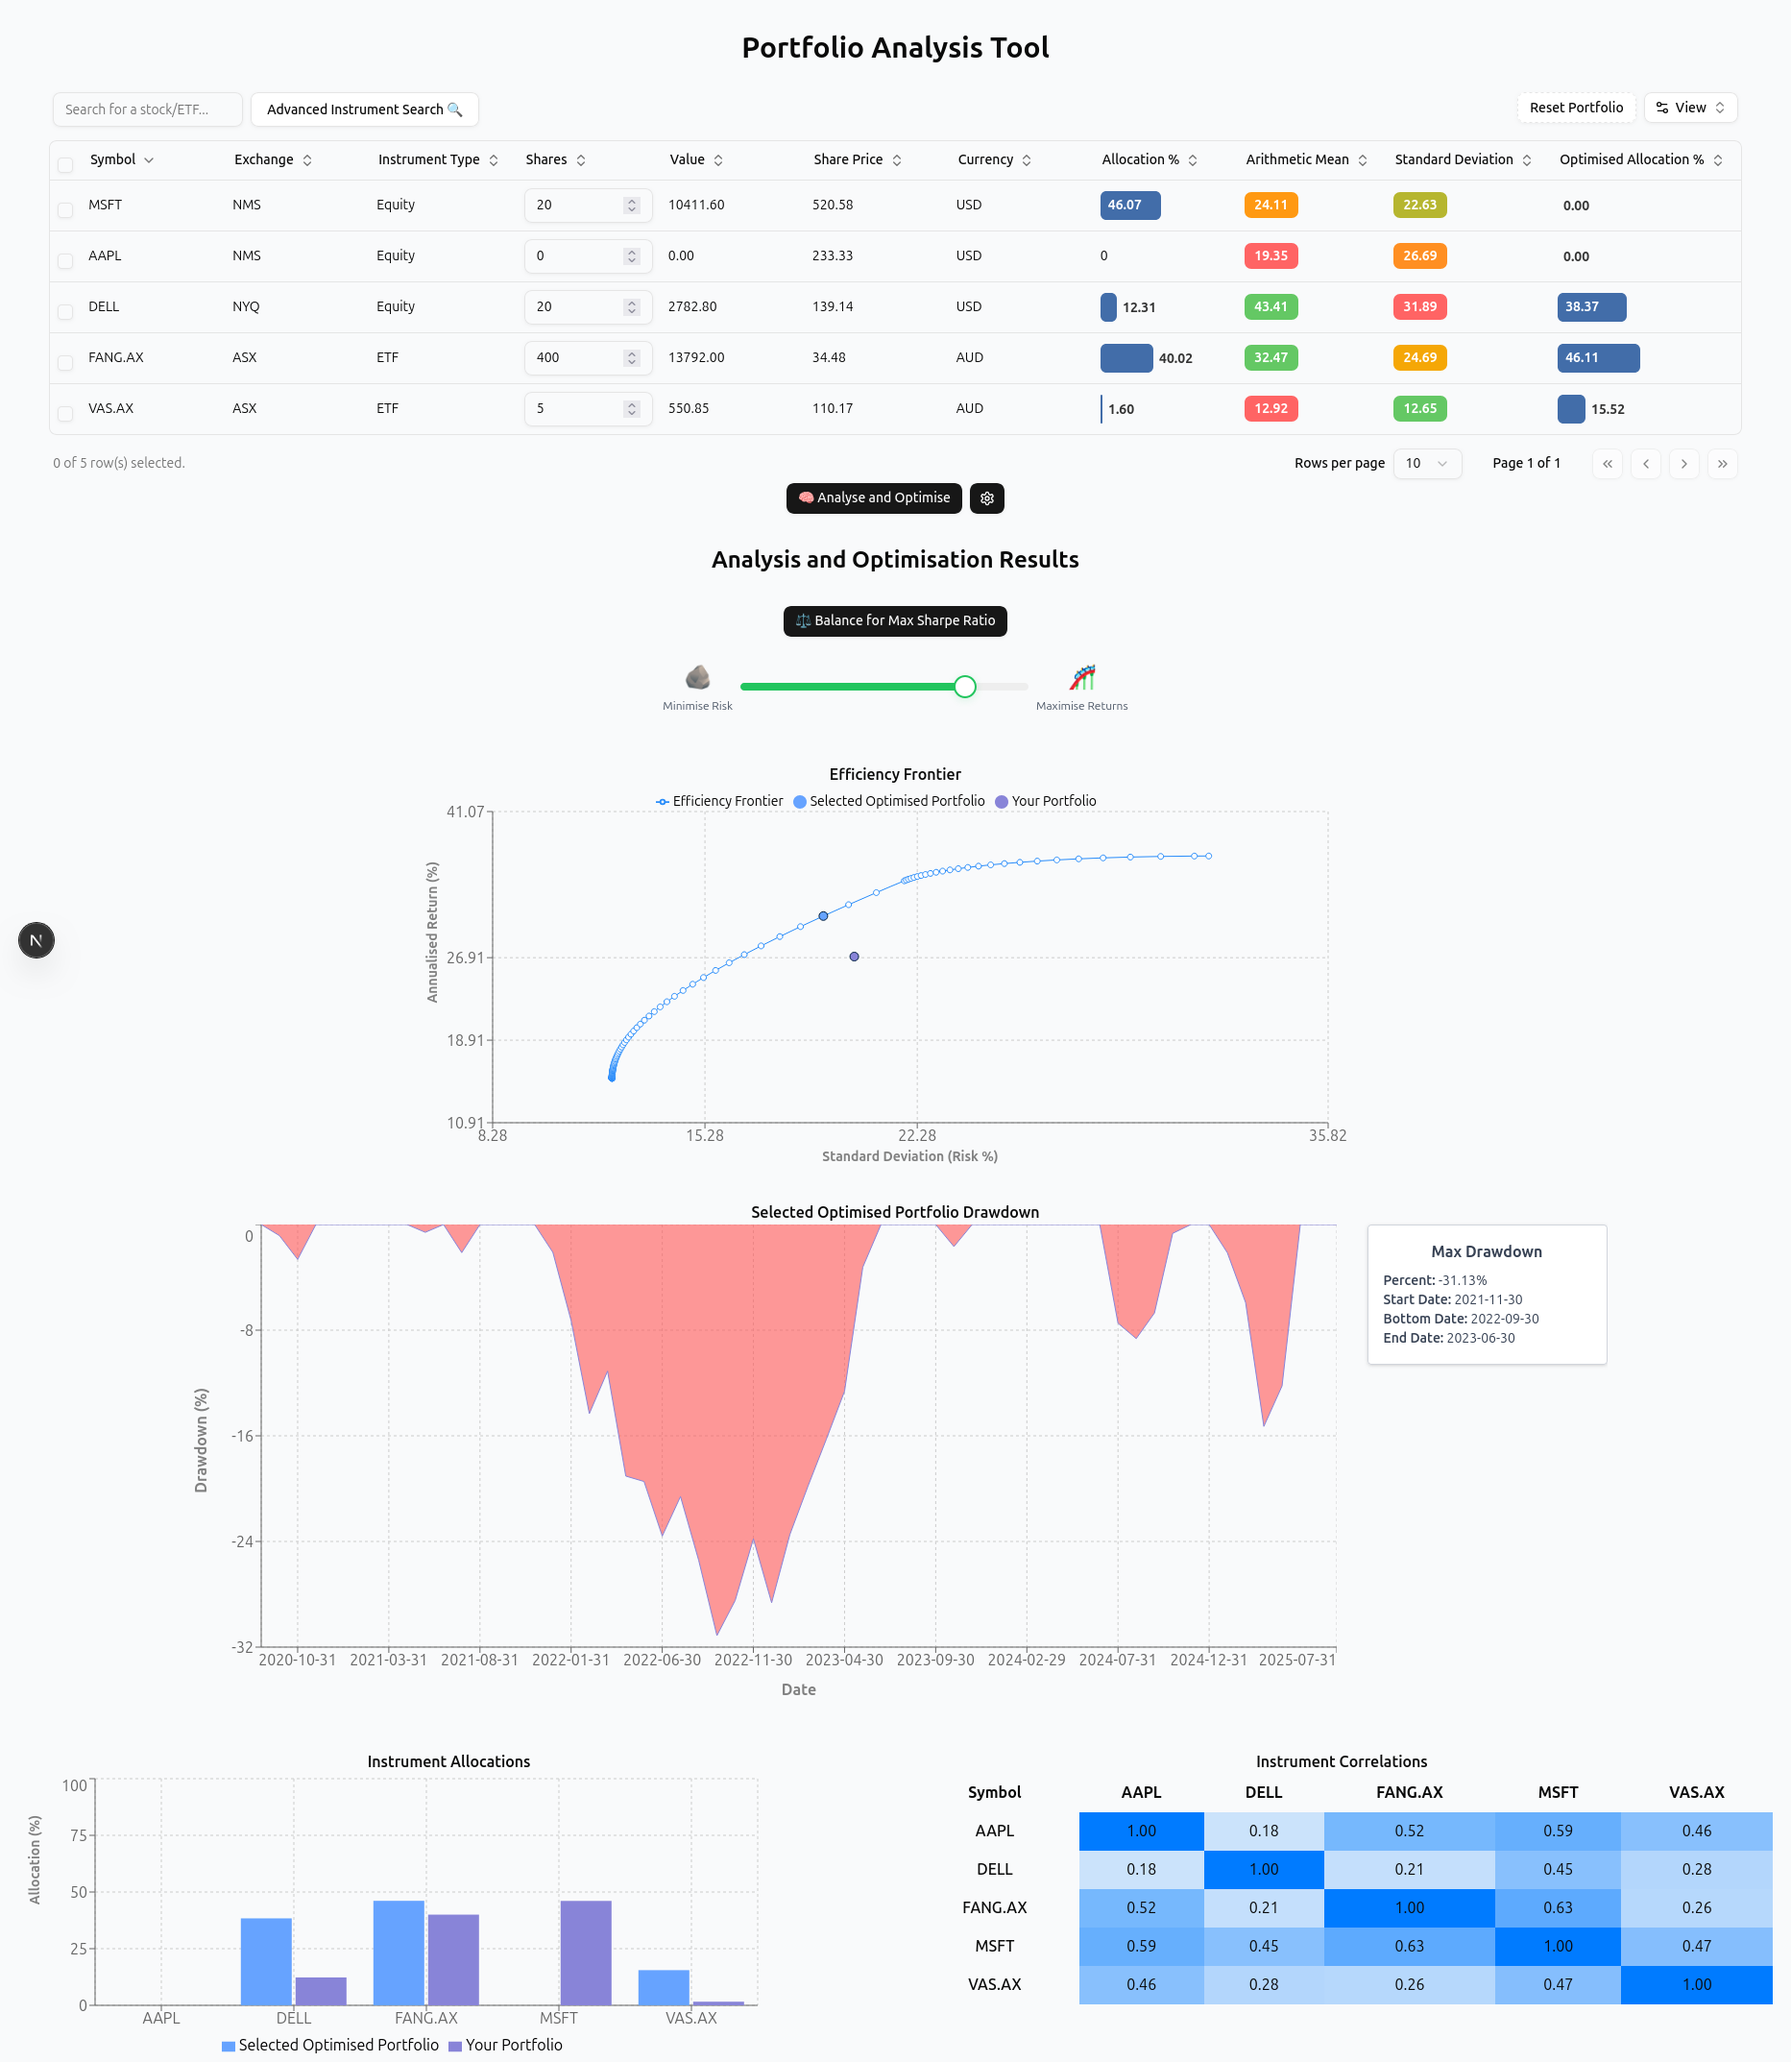
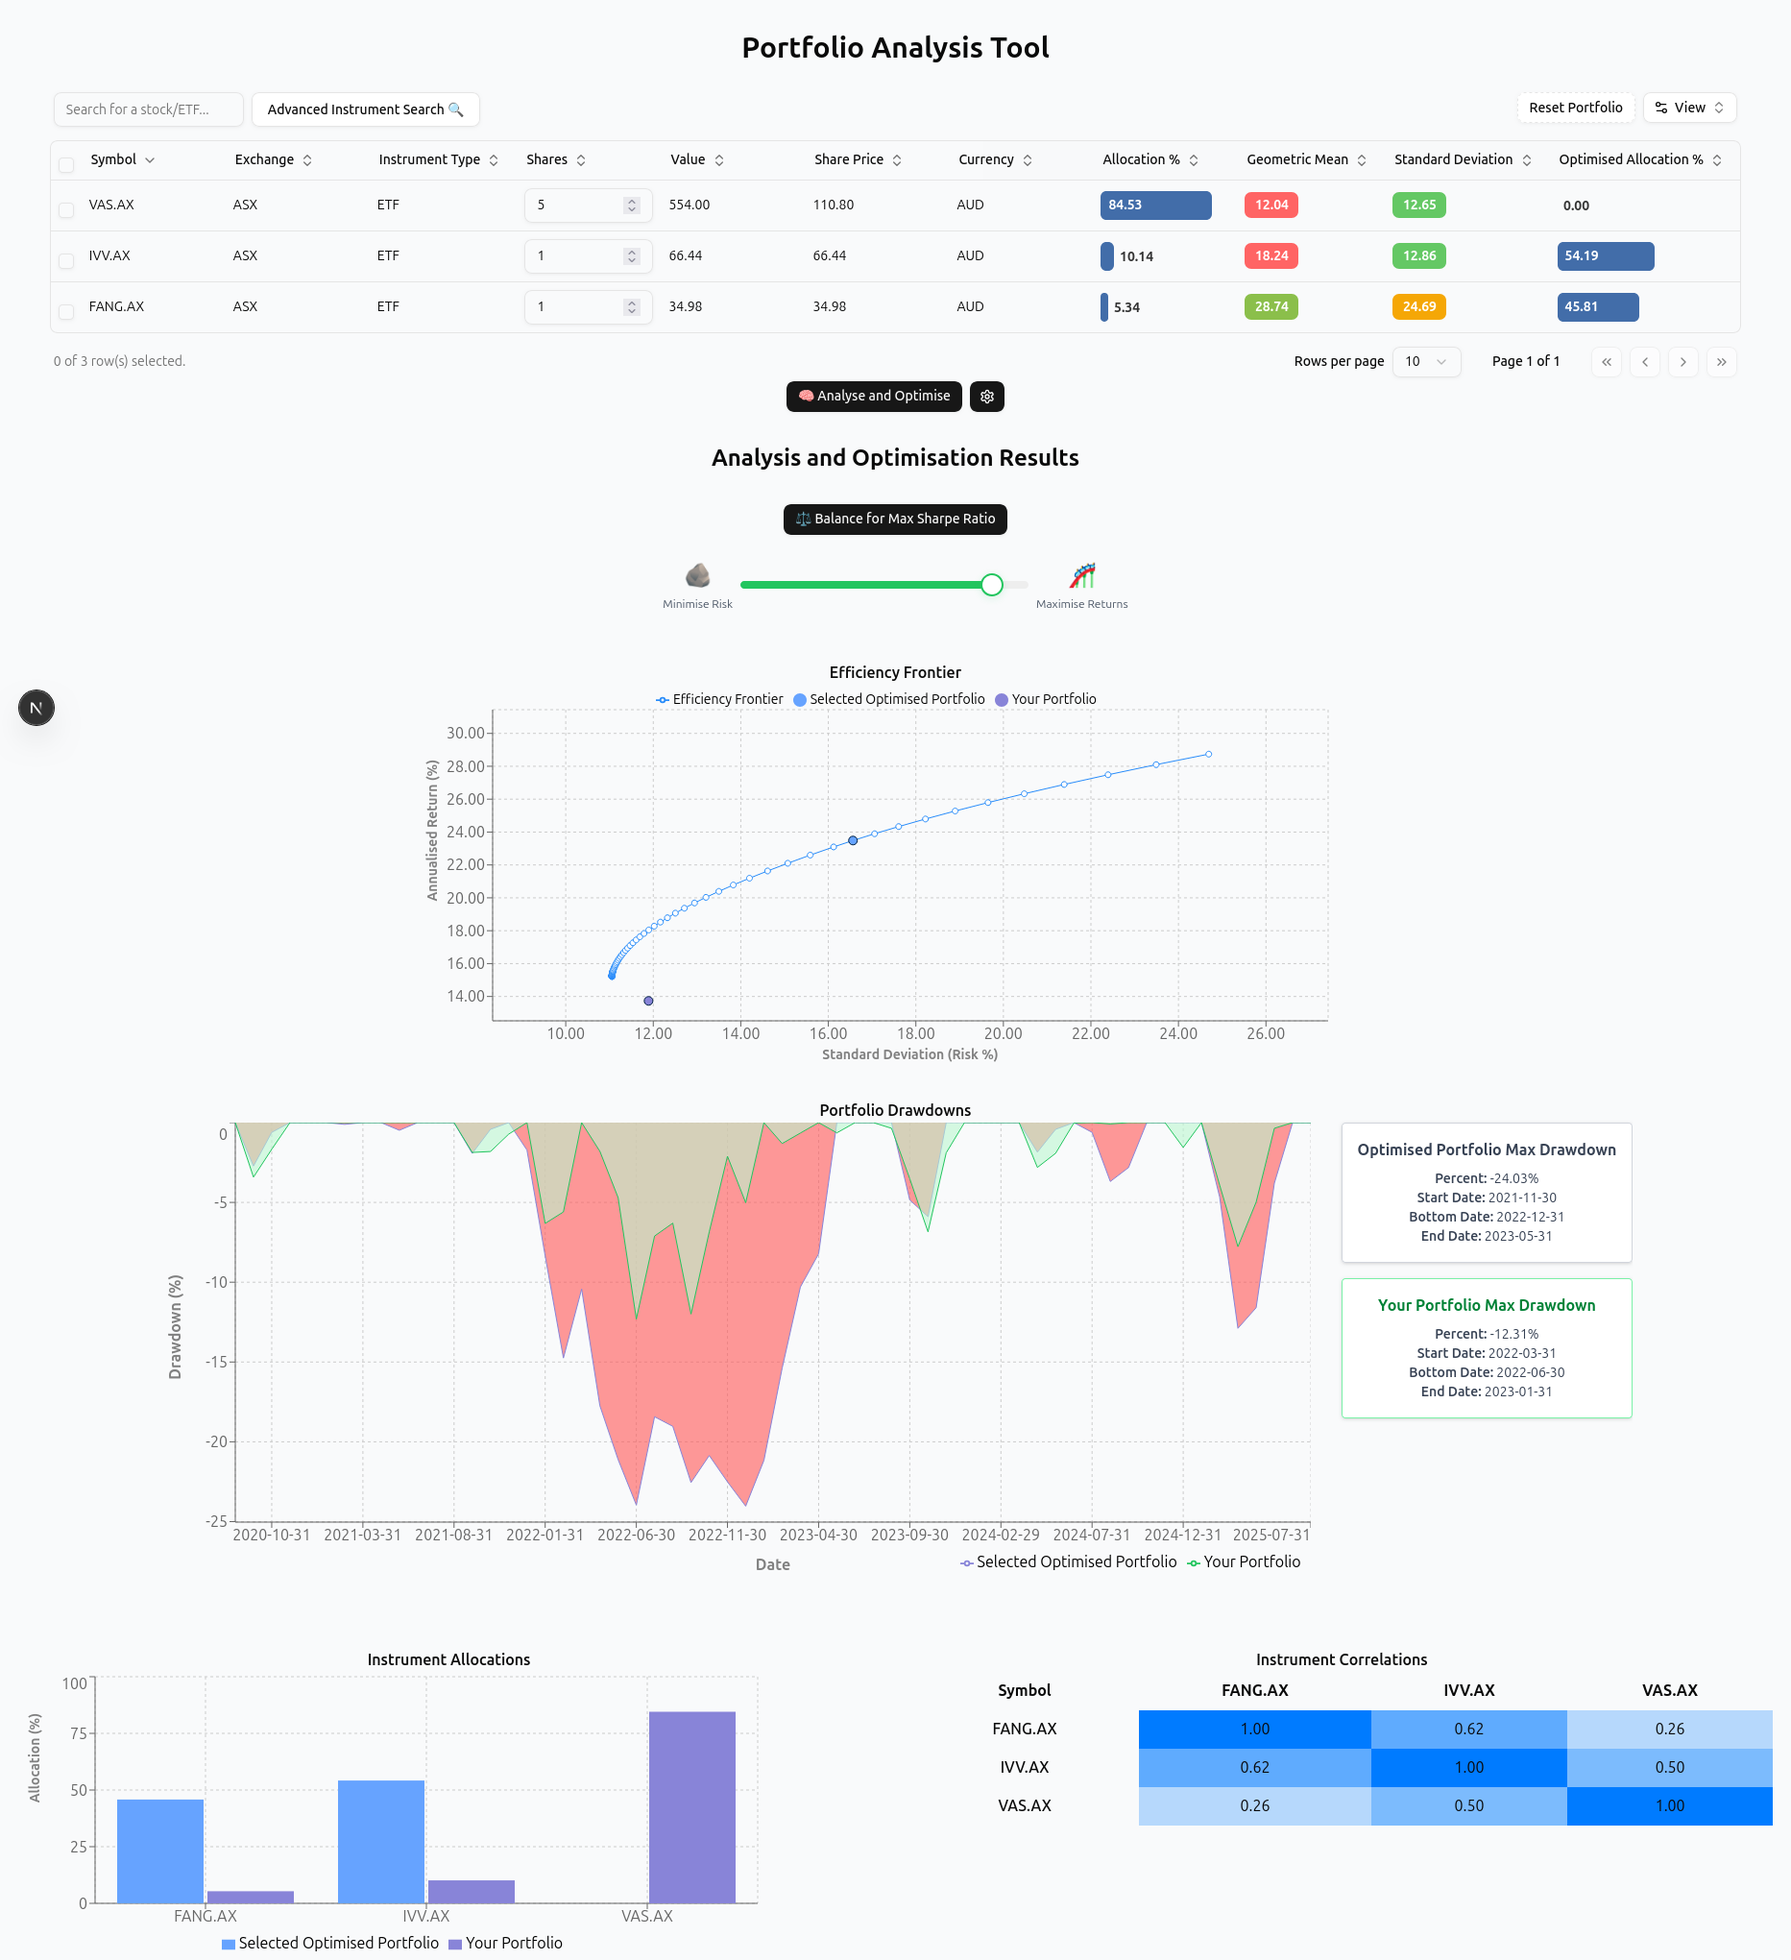
Made graph axes prittier

diff --git a/fe/src/app/efficiency-frontier-chart.tsx b/fe/src/app/efficiency-frontier-chart.tsx
@@ -38,6 +38,8 @@ export default function EfficiencyFrontierChart({
   const yBuffer = returnRange * yBoarderBuffer;
 
   const fontSize = 14;
+  const yAxisTickInterval = 2;
+  const xAsixTickInterval = 2;
 
   return (
     <div className="overflow-x-auto">
@@ -54,6 +56,17 @@ export default function EfficiencyFrontierChart({
           dataKey="stdDev"
           domain={[() => minStdDev - xBuffer, () => maxStdDev + xBuffer]}
           tickFormatter={(value) => value.toFixed(2)}
+          ticks={Array.from(
+              {
+                length:
+                  Math.ceil(
+                    (Math.ceil(maxStdDev / xAsixTickInterval) * xAsixTickInterval -
+                      Math.floor((minStdDev - 1) / xAsixTickInterval) * xAsixTickInterval) /
+                      xAsixTickInterval
+                  ) + 1,
+              },
+              (_, i) => Math.floor((minStdDev - 1) / xAsixTickInterval) * xAsixTickInterval + i * xAsixTickInterval
+            )}
           label={{
             value: "Standard Deviation (Risk %)",
             position: "insideBottom",
@@ -66,6 +79,17 @@ export default function EfficiencyFrontierChart({
           type="number"
           domain={[() => minReturn - yBuffer, () => maxReturn + yBuffer]}
           tickFormatter={(value) => value.toFixed(2)}
+          ticks={Array.from(
+              {
+                length:
+                  Math.ceil(
+                    (Math.ceil(maxReturn / yAxisTickInterval) * yAxisTickInterval -
+                      Math.floor((minReturn - 1) / yAxisTickInterval) * yAxisTickInterval) /
+                      yAxisTickInterval
+                  ) + 1,
+              },
+              (_, i) => Math.floor((minReturn - 1) / yAxisTickInterval) * yAxisTickInterval + i * yAxisTickInterval
+            )}
           label={{
             value: "Annualised Return (%)",
             angle: -90,

diff --git a/fe/src/app/drawdown-chart.tsx b/fe/src/app/drawdown-chart.tsx
@@ -47,7 +47,14 @@ export const DrawdownChart = ({
 
   const yourPortfolioMaxDrawdown = yourPortfolio?.maxDrawdown;
 
-  console.log("yourPortfolioDrawdown: ", yourPortfolioDrawdown);
+  const allValues = [
+    ...data.map((d) => d.value),
+    ...(yourPortfolioDrawdown ? yourPortfolioDrawdown.map((d) => d.value) : []),
+  ];
+  const minY = Math.min(...allValues, 0); // 0 as fallback
+  const maxY = Math.max(...allValues, 0);
+
+  const yAxisTickInterval = 5;
 
   return (
     <div className="overflow-x-auto">
@@ -75,6 +82,19 @@ export const DrawdownChart = ({
             }}
           />
           <YAxis
+            type="number"
+            domain={[minY - 1, maxY]}
+            ticks={Array.from(
+              {
+                length:
+                  Math.ceil(
+                    (Math.ceil(maxY / yAxisTickInterval) * yAxisTickInterval -
+                      Math.floor((minY - 1) / yAxisTickInterval) * yAxisTickInterval) /
+                      yAxisTickInterval
+                  ) + 1,
+              },
+              (_, i) => Math.floor((minY - 1) / yAxisTickInterval) * yAxisTickInterval + i * yAxisTickInterval
+            )}
             label={{
               value: "Drawdown (%)",
               angle: -90,

diff --git a/fe/src/app/portfolio.tsx b/fe/src/app/portfolio.tsx
@@ -65,7 +65,7 @@ export default function PortfolioDataTable({
         value: 0,
         currency: r.currency,
         exchange: r.exchange,
-        yourAllocation: 0,
+        yourAllocation: 0.0,
       };
     });
     setPortfolio((prevPortfolio) => {
